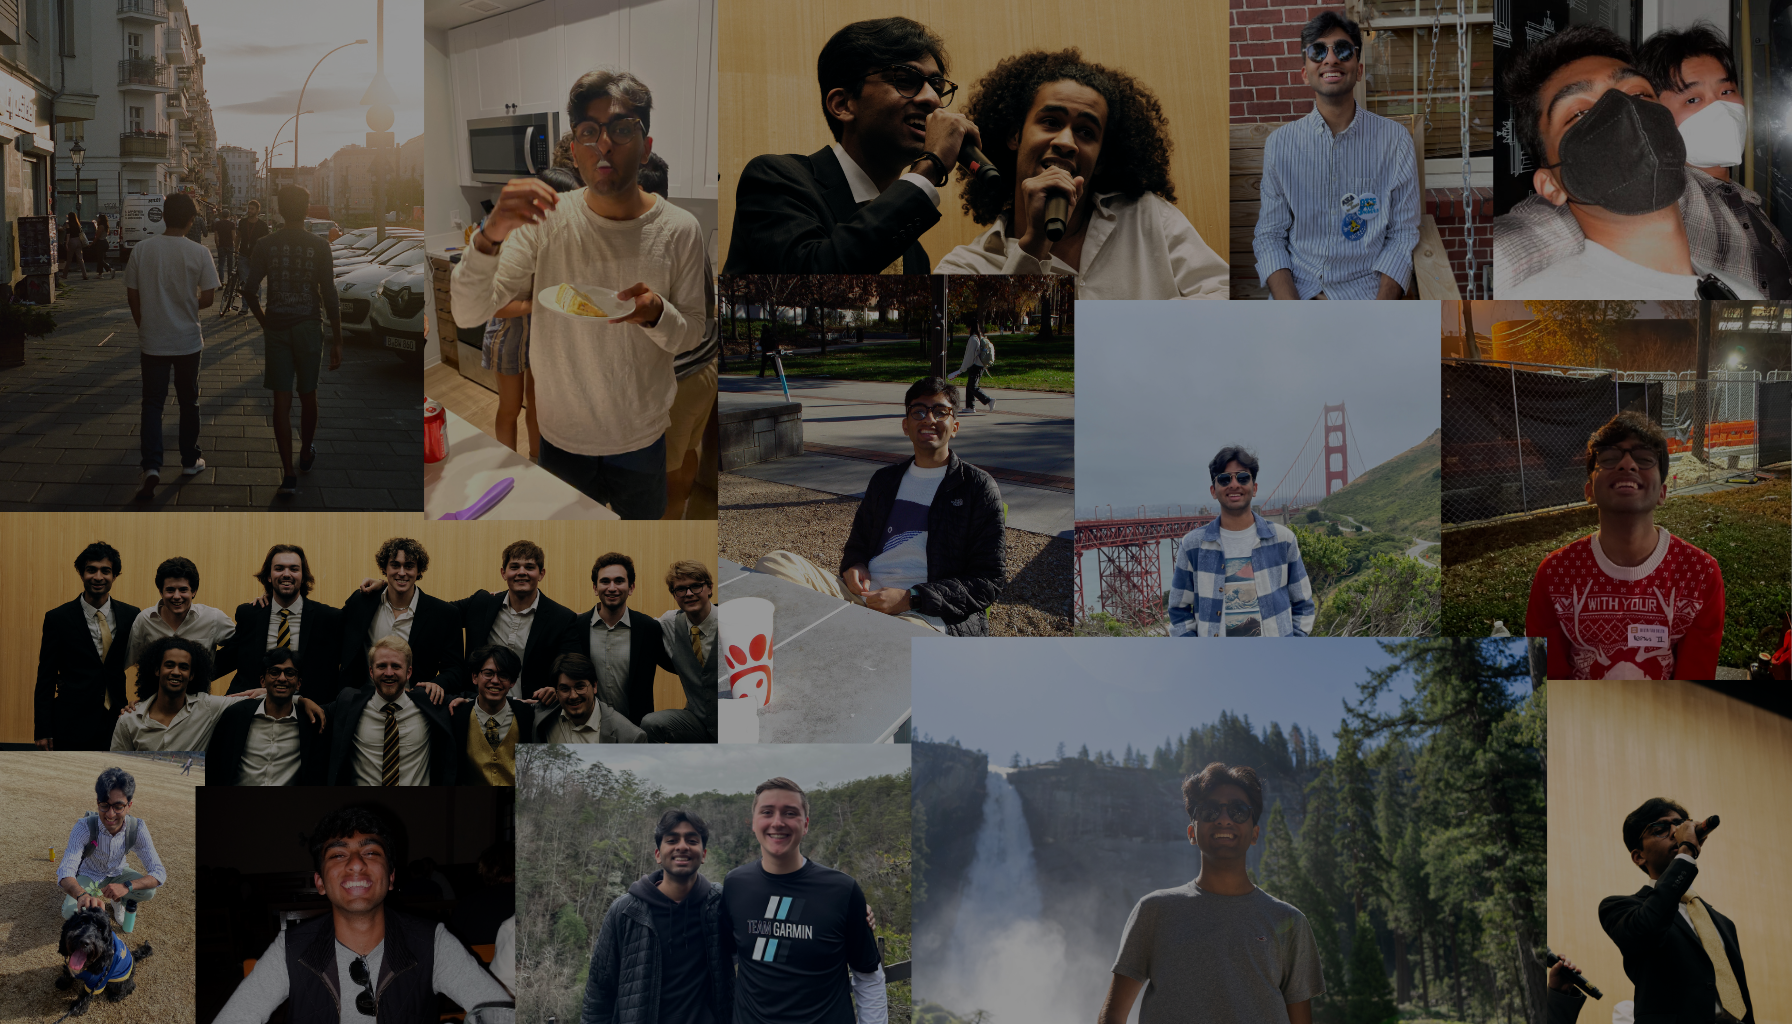
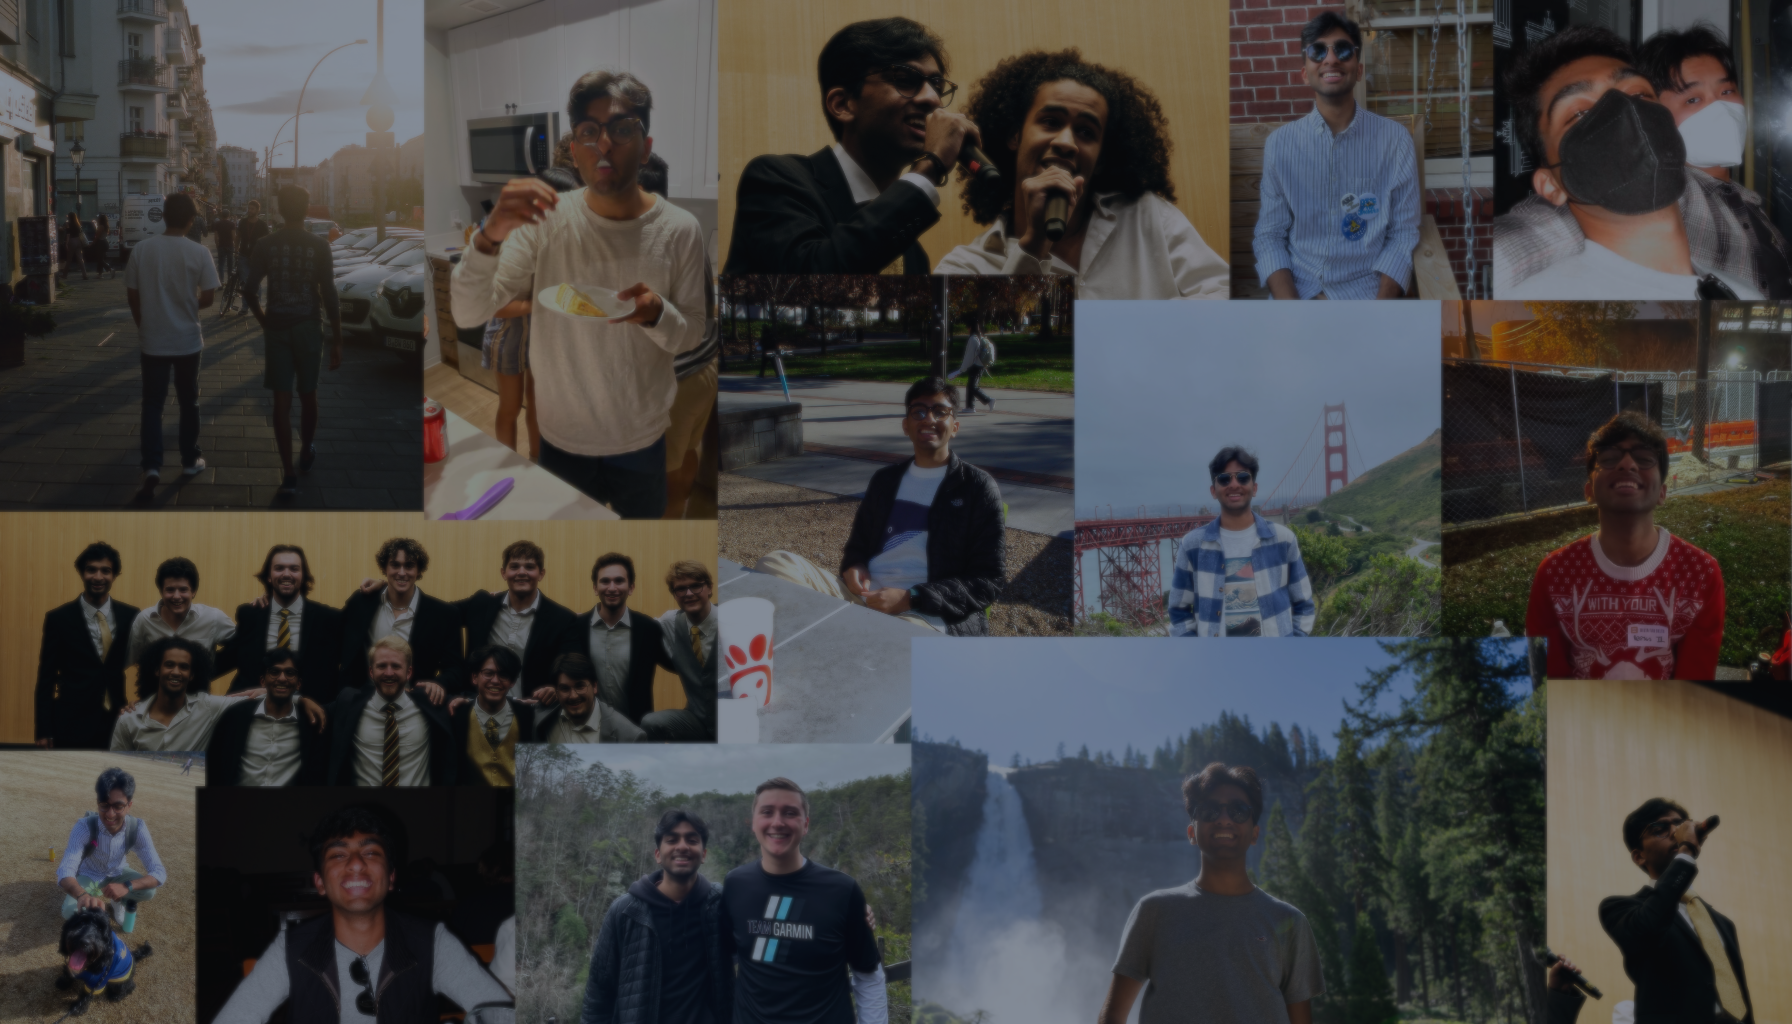
work on home and experience pages

diff --git a/utils/constants.ts b/utils/constants.ts
@@ -123,3 +123,111 @@ export const formData = [
     { title: 'Location', description: 'Atlanta', icon: IconMapPin },
     { title: 'Working hours', description: 'Always', icon: IconSun },
 ];
+
+export interface ExperienceModalContent {
+    title: string;
+    company: string;
+    companyLink: string;
+    location: string;
+    description: string;
+    dates: string;
+    imagePath: string;
+}
+
+// Extending the ModalContent interface to include the open state
+export interface ExperienceModalData extends ExperienceModalContent {
+    open: boolean;
+}
+
+export const experiences: ExperienceModalContent[] = [
+    {
+        title: 'Software Engineer Intern',
+        company: 'Chicago Trading Company',
+        companyLink: 'https://www.chicagotrading.com/',
+        location: 'Chicago, IL',
+        description: 'This summer, I\'ll be a Software Engineer Intern at Chicago Trading Company, a proprietary market-making firm with floor and electronic operations in the derivatives market. They provide pricing and liquidity on all U.S. derivatives exchanges.',
+        dates: 'May 2024 - Aug. 2024',
+        imagePath: '/logos/ctc.jpg'
+    },
+    {
+        title: 'Undergraduate Teaching Assistant',
+        company: 'College of Computing @ Georgia Tech',
+        companyLink: 'https://sci.cc.gatech.edu',
+        location: 'Atlanta, GA',
+        description: 'Currently a teaching assistant for CS 3600: Introduction to Artificial Intelligence. Previously a teaching assistant for CS 2340: Objects and Design.',
+        dates: 'Aug. 2023 - Present',
+        imagePath: '/logos/gt.jpeg'
+    },
+    {
+        title: 'Vice President - Special Projects',
+        company: 'Fremont Debate Academy',
+        companyLink: 'https://www.fremontdebateacademy.org',
+        location: 'Fremont, CA',
+        description: 'I\’m currently training teachers in standardized debate curriculum to bring speech and debate to the classroom — most recently in middle schools in Northern California! Previously, I implemented and mapped 20+ curriculum targets in accordance with 100+ Common Core State Standards. I also introduced Middle School Public Debate curriculum to teachers and instructors nationwide to offer debate as a formal course in elementary/middle schools, while also helping develop proposal to introduce comprehensive debate curriculum to CA school districts.',
+        dates: 'Aug. 2020 - Present',
+        imagePath: '/logos/fda.png'
+    },
+    {
+        title: 'Director of Member Development',
+        company: 'Delta Tau Delta - Gamma Psi Chapter',
+        companyLink: 'https://www.gtdelts.org',
+        location: 'Atlanta, GA',
+        description: 'As DMD, I organized professional & academic development resources for 50+ members across 10 disciplines to improve job placement opportunities for industry leading companies and organization-wide school performance. During my time, I oversaw new member development programming to train new 20+ new members academically, professionally, and socially. Helped coordinate with the Wellness Empowerment Center (VOICE) to create a program training Fraternity organization members to become Peer Educators within Greek Life. I also hated our previous website, so I built https://www.gtdelts.org, using Next.js (pages), Chakra UI (components), and Vercel (deployment).',
+        dates: 'Nov. 2022 - Mar. 2024',
+        imagePath: '/logos/delt.jpg'
+    },
+    {
+        title: 'Software Engineer Intern',
+        company: 'Robinhood Markets, Inc.',
+        companyLink: 'https://robinhood.com/us/en/about-us/',
+        location: 'Menlo Park, CA',
+        description: 'At Robinhood, I was a backend engineering intern on the experimentation and metrics team in the Infrastructure Engineering group. Within the experiments platform, I developed an automated experiment health check and retro-AA testing system for A/B experiments using Python, PostgreSQL, Kubernetes, to diagnose sample ratio mismatching (SRM) in analyses and improve best testing practices for core product teams. To improve visibility for the system, I Integrated the health check system into our existing full-stack application using React/Typescript and Django. For ease of use, I also automated Slack notifications and created client for OpsGenie paging to improve response times to SRMs and health check failures for 15% of experiments.',
+        dates: 'May 2023 - Aug. 2023',
+        imagePath: '/logos/robinhood.png'
+    },
+    {
+        title: 'Director of Philanthropy & Community Service',
+        company: 'Delta Tau Delta - Gamma Psi Chapter',
+        companyLink: 'https://www.gtdelts.org',
+        location: 'Atlanta, GA',
+        description: 'As our director of philanthropy & community service, I organized and planned philanthropic events to raise $1500+ funds for the Juvenile Diabetes Research Foundation and women\'s heart disease causes, and $30,000+ for stroke prevention/relief funds.  I oversaw community service and volunteering events with local organizations. Finally, I established on-campus connections to hold several joint-philanthropic events to increase internal and external participation/involvement in philanthropy events and to strengthen campus relations.',
+        dates: 'Nov. 2021 - Nov. 2022',
+        imagePath: '/logos/delt.jpg'
+    },
+    {
+        title: 'Undergraduate Researcher',
+        company: 'Georgia Tech Vertically Integrated Projects',
+        companyLink: 'https://www.vip.gatech.edu',
+        location: 'Atlanta, GA',
+        description: 'I was a student researcher at the Future Computing with Rogues Gallery group, through the Vertically Integrated Projects Program at Georgia Tech. I worked on developing a spiking neural network powered autonomous vehicle platform with simulation environments in Tensorflow and Nengo, evaluating the RatSLAM system. With a sub team specializing in neuromorphic computing, I trained a deep neural network (DNN) model on ECG data across 1500+ subjects by performing common processing analyses, including denoising, peak detection, and temporal feature extraction, to optimize classifications for arrhythmia detection. I led a team of four in performing analyses based on accuracy, specificity, and sensitivity to assess and improve quality of proposed DNN in comparison with well-known classifiers, using datasets created to study 100+ unique movements and actions.',
+        dates: 'Jan. 2022 - May 2023',
+        imagePath: '/logos/gt.jpeg'
+    },
+    {
+        title: 'Business Analyst',
+        company: 'Consult Your Community - Georgia Tech',
+        companyLink: 'https://www.georgiatechcyc.org',
+        location: 'Atlanta, GA',
+        description: 'In my first project, I developed an interactive Figma web design to enhance online engagement for a client aiming to connect with the local pickleball community, facilitating increased digital presence and community interaction. For another client, I conducted comprehensive market research and devised targeted marketing campaigns, significantly diversifying and strengthening their revenue streams through strategic business insights.',
+        dates: 'Aug. 2022 - May 2023',
+        imagePath: '/logos/cyc.png'
+    },
+    {
+        title: 'Software Developer Intern',
+        company: 'Siemens Digital Industries Software',
+        companyLink: 'https://www.sw.siemens.com',
+        location: 'Remote',
+        description: 'I was a Software Development Intern as a part of the Siemens Strategic Student Program (SSP). As an intern, I redesigned user interface for Siemens Software Center in C++ and Qt Stylesheets by collaborating with marketing leads and optimizing Human-Computer Interaction. Developed renderings in Figma and implemented 15+ released SSC features with Qt. I used Siemens marketing research and policies to drive design decisions, deploying unit test frameworks to assess interactive features. Throughout the internship, I worked with teams internationally in performance testing using Google Testing Frameworks in an agile environment.',
+        dates: 'Jan. 2022 - May 2022',
+        imagePath: '/logos/siemens.jpeg'
+    },
+    {
+        title: 'Research Intern',
+        company: 'Oregon Health and Science University',
+        companyLink: 'https://www.ohsu.edu',
+        location: 'Portland, OR',
+        description: 'As a research intern, I studied the effect Apolipoprotein E (ApoE) and human Amyloid Precursor Protein (hAPP) mutations on possible protective pathways for Alzheimer\'s Disease development at the Raber Lab in the Department of Behavioral Neuroscience. The research utilized novel behavioral assays in mice and rat models to further understand the genetic and environmental factors implicated in cognitive decline. I personally conducted 150+ metabolic pathway and statistical analyses using Metaboanalyst, an R-based platform, to co-author research on the effect of micro-gravity and simulated space irradiation on metabolic pathways in rats. Working with data quite a bit, I analyzed and reviewed 250+ behavioral assays using novel protocols, IBM SPSS Statistics, GraphPad Prism, to study possible genetic protective pathways for Alzheimer\'s development.',
+        dates: 'Mar. 2020 - Aug. 2021',
+        imagePath: '/logos/ohsu.png'
+    }
+];

diff --git a/app/experience/ExperienceTimeline/ExperienceTimeline.tsx b/app/experience/ExperienceTimeline/ExperienceTimeline.tsx
@@ -1,0 +1,68 @@
+'use client'
+
+import { useState } from 'react';
+import { Modal, Timeline, Text, Stack, Anchor, Title, Image } from '@mantine/core';
+import classes from './ExperienceTimeline.module.css';
+import { ExperienceModalData, ExperienceModalContent, experiences } from '@/utils/constants';
+
+export function ExperienceTimeline() {
+    // manage open/close and detailed content of the modal
+    const [modalData, setModalData] = useState<ExperienceModalData>({ open: false, title: '', company: '', companyLink: '', location: '', description: '', dates: '', imagePath: '' });
+
+    // open modal with detailed content
+    const openModal = (data: ExperienceModalContent) => {
+        setModalData({ open: true, ...data });
+    };
+
+    // close modal
+    const closeModal = () => {
+        setModalData({ open: false, title: '', company: '', companyLink: '', location: '', description: '', dates: '', imagePath: '' });
+    };
+
+    return (
+        <Stack align='center' justify='center' p='xl'>
+            <Text className={classes.title}>
+                My Experience
+            </Text>
+            <Text c='white' size='lg' ta='center'>
+                Below is a summary of my experience, whether it be professional or personal. Feel free to check out my <Anchor href='/resume'>résumé</Anchor> for a one-page summary. Click on each item to find out more details about each experience!
+            </Text>
+            <br />
+            <Timeline bulletSize={50} lineWidth={5} active={2} color={'#0172AF'}>
+                {experiences.map((experience) => (
+                    <Timeline.Item
+                        key={experience.title + experience.dates} // Unique key for React elements in lists
+                        title={<Text size="lg" c='white'>{experience.company}</Text>}
+                        onClick={() => openModal(experience)}
+                        bullet={<Image radius="xl" src={experience.imagePath} alt="" />}
+                    >
+                        <Text c="dimmed" size="md">
+                            {experience.title}
+                        </Text>
+                        <Text size="sm">
+                            {experience.dates}
+                        </Text>
+                    </Timeline.Item>
+                ))}
+            </Timeline>
+            <Modal
+                opened={modalData.open}
+                onClose={closeModal}
+                title={"Experience Details"}
+                centered
+            >
+                <Title order={3} c='white'>{modalData.title}</Title>
+                <Anchor c='#50B384' target='_blank' href={modalData.companyLink}>
+                    <Text fw={500}>{modalData.company}</Text>
+                </Anchor>
+                <Text c="dimmed">{modalData.location}</Text>
+                <Text c="dimmed" size="sm">{modalData.dates}</Text>
+                <br />
+                <Text>{modalData.description}</Text>
+                <Image src={modalData.imagePath} alt="" style={{ marginTop: '20px' }} />
+            </Modal>
+        </Stack>
+    )
+}
+
+export default ExperienceTimeline;

diff --git a/app/experience/ContactButtons/ContactButtons.tsx b/app/experience/ContactButtons/ContactButtons.tsx
@@ -1,0 +1,55 @@
+import { Group, Anchor, Button, Text } from "@mantine/core";
+import { IconForms, IconCalendar, IconMail, IconBrandInstagram } from "@tabler/icons-react";
+
+export function ContactButtons() {
+    return (
+        <>
+            <Text c='white' size='xl' ta='center' fw={600}>
+                Got questions for me? Feel free to reach out!
+            </Text>
+
+            <Group align='center' justify='center' p={'md'}>
+                <Anchor href='/contact' underline='never'>
+                    <Button
+                        variant='light'
+                        color='#FFF'
+                        leftSection={<IconForms />}
+                        radius={'md'}
+                    >
+                        <Text size='l' fw={700}>Contact</Text>
+                    </Button>
+                </Anchor>
+                <Anchor href='https://calendly.com/reesud6187/30min' underline='never' target='_blank'>
+                    <Button
+                        variant='filled'
+                        color='teal'
+                        leftSection={<IconCalendar />}
+                        radius={'md'}
+                    >
+                        <Text size='l' fw={700}>Schedule a meeting</Text>
+                    </Button>
+                </Anchor>
+                <Anchor href='mailto:reesud6187@gmail.com' underline='never' target='_blank'>
+                    <Button
+                        variant='light'
+                        color='#FFF'
+                        leftSection={<IconMail />}
+                        radius={'md'}
+                    >
+                        <Text size='l' fw={700}>Email me!</Text>
+                    </Button>
+                </Anchor>
+                <Anchor href='https://instagram.com/reeteshsudhakar' underline='never' target='_blank'>
+                    <Button
+                        variant='gradient'
+                        gradient={{ deg: 206, from: 'pink', to: 'yellow' }}
+                        leftSection={<IconBrandInstagram />}
+                        radius={'md'}
+                    >
+                        <Text size='l' fw={700}>Instagram</Text>
+                    </Button>
+                </Anchor>
+            </Group>
+        </>
+    );
+}

diff --git a/app/(home)/AboutHero/AboutHero.tsx b/app/(home)/AboutHero/AboutHero.tsx
@@ -1,6 +1,6 @@
 'use client'
 
-import { Text, Center, Stack, Overlay } from '@mantine/core';
+import { Text, Center, Stack } from '@mantine/core';
 import classes from './AboutHero.module.css';
 
 export function AboutHero() {
@@ -17,12 +17,9 @@ export function AboutHero() {
                     p={'xl'}
                     ta='justify'
                 >
-                    I am a B.S./M.S. student at Georgia Tech, with specializations in Artificial Intelligence and Modeling & Simulation.
+                    I recently completed my B.S. in Computer Science at Georgia Tech, with specializations in Artificial Intelligence and Modeling & Simulation.
                     I’m originally from Portland, OR. This summer, I’ll be a Software Engineer Intern at <Text span fw={700} c="#b08fcb">Chicago Trading Company. </Text>
-                    Previously, I’ve interned at  <Text span fw={700} c="#5ac53b">Robinhood</Text> in the experimentation & dynamic configuration team, and at  <Text span fw={700} c="#439798">Siemens</Text>, where I
-                    worked in proprietary software delivery. My main interests lie in backend development, creating development tools to aid
-                    business and engineering teams, and data-driven solutions. Some languages, tools, and technologies I'm comfortable with include
-                    Python, Java, Django, PostgreSQL, React (Next.js + Typescript), Git/GitHub/GitLab, Figma, and Atlassian products.
+                    My main interests lie in backend development, creating development tools to aid business and engineering teams, and data-driven solutions.
                 </Text>
             </Stack>
         </Center>

diff --git a/app/(home)/WorkingOnHero/WorkingOnHero.tsx b/app/(home)/WorkingOnHero/WorkingOnHero.tsx
@@ -20,7 +20,7 @@ export function WorkingOnHero() {
                 >
                     I've been messing around with a lot of different things lately, technical and otherwise. Some notable things - a website for my a cappella group, this website,
                     a dashboard for my personal finances and daily news supercharged by AI, and some basic dev tools to self-host on my own website to make my daily life easier. I'm
-                    also carving out time to write more, and also work on an a cappella arrangement. Stay tuned for more!
+                    also carving out time to write more, and also work on an a cappella arrangement. Stay tuned to see if I finish any of these!
                 </Text>
 
                 <Group align='center' justify='center'>

diff --git a/app/experience/page.tsx b/app/experience/page.tsx
@@ -1,9 +1,16 @@
-import { Welcome } from "@/components/Welcome/Welcome";
+'use client'
+
+import ExperienceTimeline from "./ExperienceTimeline/ExperienceTimeline";
+import { Stack } from "@mantine/core";
+import SkillsSection from "./skills/SkillsSection";
+import { ContactButtons } from "./ContactButtons/ContactButtons";
 
 export default function HomePage() {
     return (
-        <>
-            <Welcome pageTitle='Experience' />
-        </>
+        <Stack align='center' justify='center' p={'xl'}>
+            <ExperienceTimeline />
+            <SkillsSection />
+            <ContactButtons />
+        </Stack>
     );
 }

diff --git a/app/experience/skills/SkillsSection.tsx b/app/experience/skills/SkillsSection.tsx
@@ -1,0 +1,17 @@
+import { Stack, Text } from "@mantine/core";
+import classes from './SkillsSection.module.css';
+
+export function SkillsSection() {
+    return (
+        <Stack p={'xl'}>
+            <Text className={classes.title}>
+                Skills, Tools, and Technologies
+            </Text>
+            <Text c='white' size='lg' ta='center'>
+                These are some tools and technologies that I have experience with in various capacities, whether professional, academic, or personal. I'm always looking to expand my skillset!
+            </Text>
+        </Stack>
+    );
+}
+
+export default SkillsSection;

diff --git a/app/(home)/IntroHero/IntroHero.tsx b/app/(home)/IntroHero/IntroHero.tsx
@@ -16,9 +16,9 @@ export function IntroHero() {
                     c='#FFFFFF'
                     p={'sm'}
                     ta='center'
+                    size='xl'
                 >
-                    I'm a M.S. Computer Science student at Georgia Tech! I'm passionate about finance, technology, and music.
-                    Scroll to learn more ⬇
+                    I'm a M.S. Computer Science student at the Georgia Institute of Technology! I'm passionate about finance, technology, and music. Scroll to learn more ⬇
                 </Text>
             </Stack>
         </Center>

diff --git a/app/experience/ExperienceTimeline/ExperienceTimeline.module.css b/app/experience/ExperienceTimeline/ExperienceTimeline.module.css
@@ -1,0 +1,20 @@
+.title {
+    font-weight: 800;
+    font-size: rem(50px);
+    padding-left: var(--mantine-spacing-md);
+    padding-right: var(--mantine-spacing-md);
+    color: #50B384;
+    /* background: linear-gradient(to right, #0172AF, #50B384);
+    background-clip: text;
+    -webkit-background-clip: text;
+    -webkit-text-fill-color: transparent; */
+    text-align: center;
+    font-family:
+        Greycliff CF,
+        var(--mantine-font-family);
+
+    @media (max-width: $mantine-breakpoint-xs) {
+        font-size: rem(28px);
+        text-align: left;
+    }
+}

diff --git a/app/experience/skills/SkillsSection.module.css b/app/experience/skills/SkillsSection.module.css
@@ -1,0 +1,20 @@
+.title {
+    font-weight: 800;
+    font-size: rem(50px);
+    padding-left: var(--mantine-spacing-md);
+    padding-right: var(--mantine-spacing-md);
+    color: #0172AF;
+    /* background: linear-gradient(to right, #0172AF, #50B384);
+    background-clip: text;
+    -webkit-background-clip: text;
+    -webkit-text-fill-color: transparent; */
+    text-align: center;
+    font-family:
+        Greycliff CF,
+        var(--mantine-font-family);
+
+    @media (max-width: $mantine-breakpoint-xs) {
+        font-size: rem(28px);
+        text-align: left;
+    }
+}

diff --git a/app/(home)/IntroHero/IntroHero.module.css b/app/(home)/IntroHero/IntroHero.module.css
@@ -1,6 +1,6 @@
 .wrapper {
     position: relative;
-    background-image: url('/ree2.jpg');
+    background-image: url('/intro-hero-background.jpg');
     background-size: cover;
     background-position: center;
     width: 100%;
